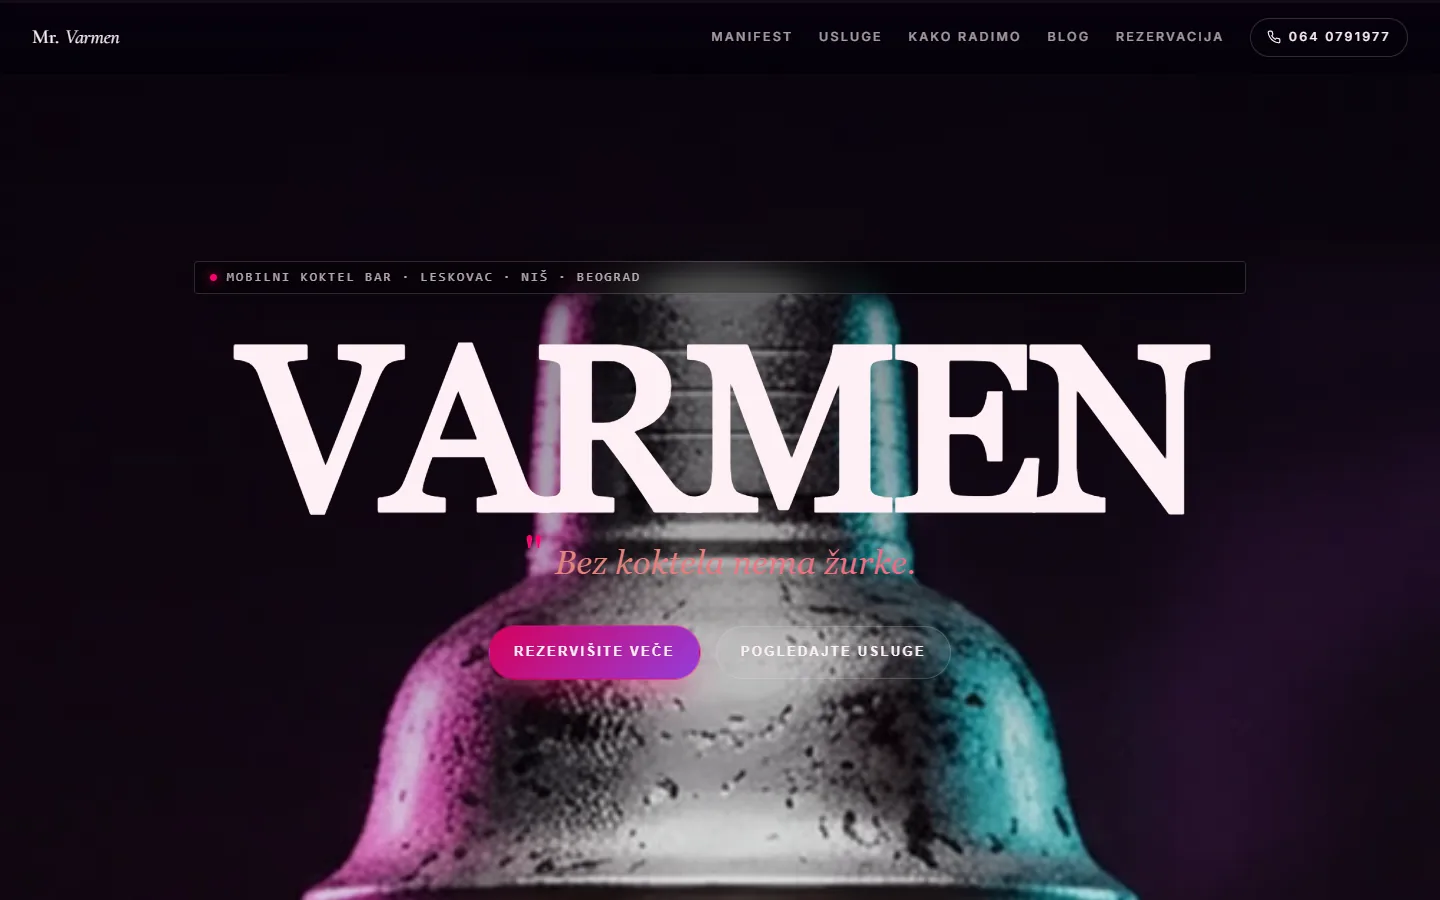
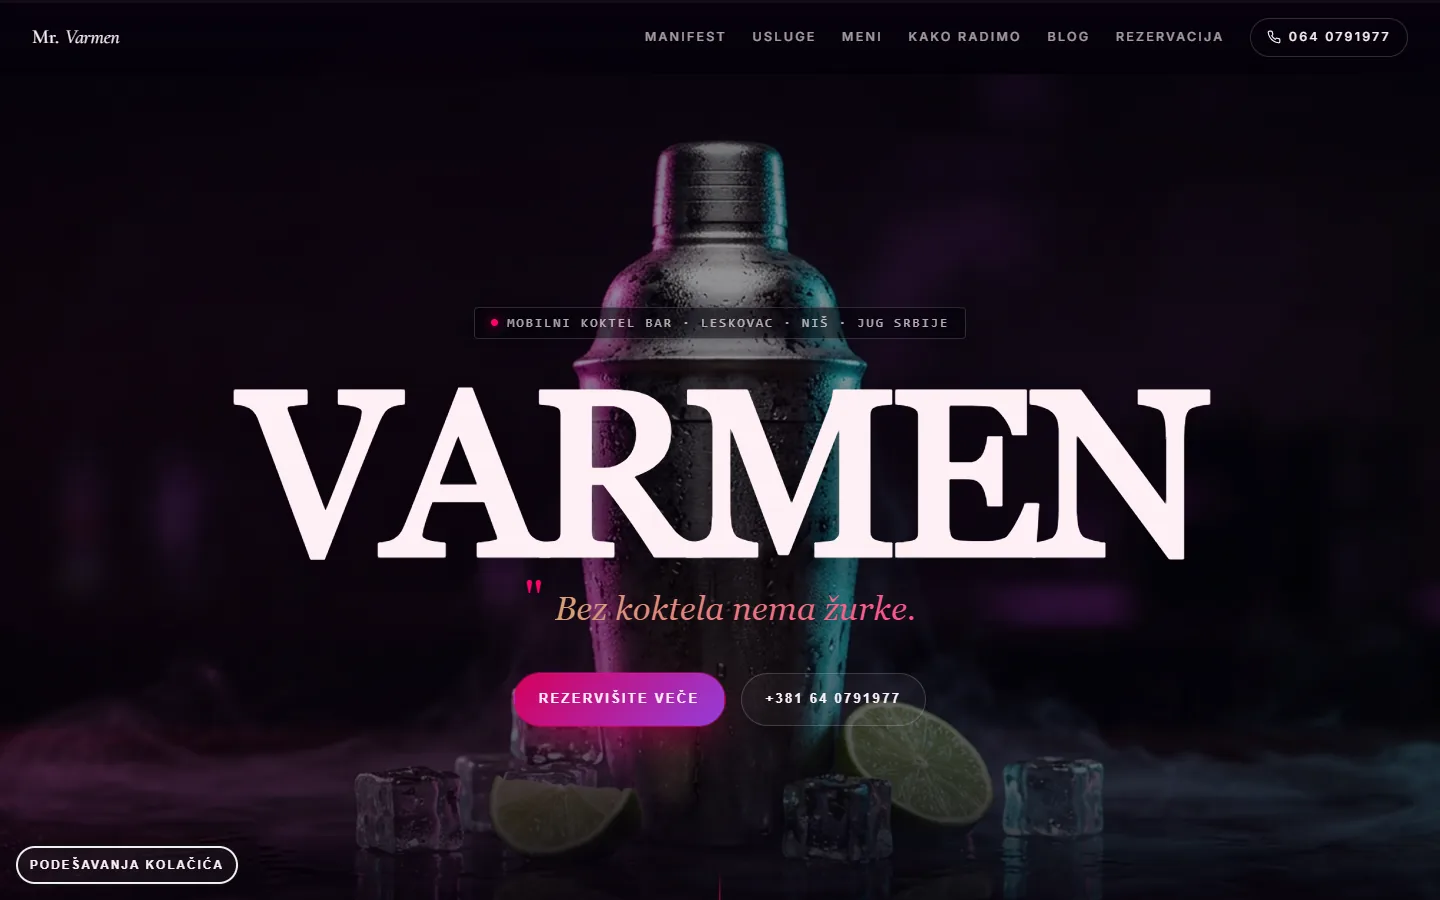
Update project page

diff --git a/README.md b/README.md
@@ -2,7 +2,7 @@
 
 # Mr. Varmen
 
-Site for a mobile cocktail bar that works weddings, birthdays and company events, opening with a film that plays as you scroll.
+Site for a mobile cocktail bar from Leskovac that works weddings, birthdays and company events, with its real cocktail menu and a page for each kind of event.
 
 **[mr.varmen.rs](https://mr.varmen.rs/)** · [Case study (in Serbian)](https://svilenkovic.rs/radovi/mr-varmen) · [Srpski](README.sr.md)
 
@@ -12,7 +12,7 @@ Site for a mobile cocktail bar that works weddings, birthdays and company events
 <table>
   <tr><td><b>Client</b></td><td>Mr. Varmen</td></tr>
   <tr><td><b>Industry</b></td><td>Mobile cocktail bar for events</td></tr>
-  <tr><td><b>Location</b></td><td>Leskovac, Niš and Belgrade, Serbia</td></tr>
+  <tr><td><b>Location</b></td><td>Leskovac, Niš and southern Serbia</td></tr>
   <tr><td><b>Type</b></td><td>Multi-page website</td></tr>
   <tr><td><b>My role</b></td><td>Design, development, SEO, hosting and maintenance</td></tr>
   <tr><td><b>Stack</b></td><td>Astro, JavaScript, PHP, JSON-LD</td></tr>
@@ -20,17 +20,17 @@ Site for a mobile cocktail bar that works weddings, birthdays and company events
 
 ## About the project
 
-Mr. Varmen brings a full cocktail bar and a bartender to weddings, birthdays and company events in Leskovac, Niš, Belgrade and the towns around them. People do not choose a mobile bar from a list of drinks, so the site first shows the preparation and the pour, and only then the offer. From there it leads to a short conversation about the date, the guest count and the menu.
+Mr. Varmen brings a full cocktail bar and a bartender to weddings, birthdays and company events in Leskovac, Niš, Vranje, Pirot, Prokuplje, Vlasotince and Lebane. People do not choose a mobile bar from a list of drinks, so the site first shows the pour and the mood of the evening, then the menu the bar actually brings, and only then asks for the date, the guest count and the place.
 
-The homepage opens with a pinned film in four chapters. On desktop the scroll position sets the video's playback time, on touch screens a separate mobile cut plays on a loop, and captions and a chapter rail follow the scroll either way. Nothing downloads until the first scroll or tap, or until six seconds have passed. With data saver on the video never loads, and visitors who ask for reduced motion get the poster and the text.
+The homepage opens with a short full-screen clip of a cocktail being poured. It loops, weighs 1.45 MB (0.57 MB on phones) and starts only after the page has loaded, so it never holds up the first paint. Below it, four stills from the same clip walk through the evening from setting up the bar to serving.
 
 ## What I built
 
-- Separate pages for weddings, birthdays, company events and the Niš area, plus a blog with five practical posts
-- A three-step booking flow (conversation, menu proposal, the evening) and a form for date, guest count, event type and location
-- A small PHP endpoint behind the form, with spam protection and a clear confirmation for the visitor
-- The pinned layout set by an inline script before the first paint, so the intro does not jump while the page loads
-- An animation loop that runs only while the film is on screen, tracked with an IntersectionObserver
+- Separate pages for weddings, birthdays, company events and the Niš area, with travel up to 50 km included in the package, plus a blog with five practical posts
+- The real cocktail menu, copied from the printed one the bar takes to events: ten cocktails and four shots, each with a drawn glass in the drink's colours, also described as Menu structured data
+- A three-step booking flow (conversation, menu proposal, the evening) and a form for date, guest count, event type and location, sent through my central form service with spam protection
+- Fonts cut down to the letters the site uses, with č, ć, đ, š and ž in a separate file of a few kilobytes
+- Instagram, TikTok and Facebook profiles linked from the footer, the contact page and the structured data
 - Static pages from Astro, with the legal pages and cookie settings styled like the rest of the site
 
 ## Results
@@ -51,11 +51,11 @@ PageSpeed Insights, lab test of the live site, October 2026. Security headers: 6
   </tr>
 </table>
 
-<img src="media/inner-1.webp" alt="The offer is split by event type and bar format">
-<sub>The offer is split by event type and bar format</sub>
+<img src="media/inner-1.webp" alt="The menu the bar brings: ten cocktails and four shots">
+<sub>The menu the bar brings: ten cocktails and four shots</sub>
 
-<img src="media/inner-2.webp" alt="A blog with practical tips on choosing and organizing a bar">
-<sub>A blog with practical tips on choosing and organizing a bar</sub>
+<img src="media/inner-2.webp" alt="Each kind of event has its own page, here weddings">
+<sub>Each kind of event has its own page, here weddings</sub>
 
 ---
 

diff --git a/README.sr.md b/README.sr.md
@@ -2,7 +2,7 @@
 
 # Mr. Varmen
 
-Sajt mobilnog koktel bara za svadbe, rođendane i poslovne događaje, sa filmom na početnoj koji se odvija dok se skroluje.
+Sajt mobilnog koktel bara iz Leskovca za svadbe, rođendane i poslovne događaje, sa pravim menijem koktela i stranom za svaku vrstu događaja.
 
 **[mr.varmen.rs](https://mr.varmen.rs/)** · [Studija slučaja](https://svilenkovic.rs/radovi/mr-varmen) · [English](README.md)
 
@@ -12,7 +12,7 @@ Sajt mobilnog koktel bara za svadbe, rođendane i poslovne događaje, sa filmom 
 <table>
   <tr><td><b>Klijent</b></td><td>Mr. Varmen</td></tr>
   <tr><td><b>Delatnost</b></td><td>Mobilni koktel bar za događaje</td></tr>
-  <tr><td><b>Lokacija</b></td><td>Leskovac, Niš i Beograd</td></tr>
+  <tr><td><b>Lokacija</b></td><td>Leskovac, Niš i jug Srbije</td></tr>
   <tr><td><b>Vrsta</b></td><td>Sajt sa više strana</td></tr>
   <tr><td><b>Moj deo posla</b></td><td>Dizajn, izrada, SEO, hosting i održavanje</td></tr>
   <tr><td><b>Tehnologije</b></td><td>Astro, JavaScript, PHP, JSON-LD</td></tr>
@@ -20,17 +20,17 @@ Sajt mobilnog koktel bara za svadbe, rođendane i poslovne događaje, sa filmom 
 
 ## O projektu
 
-Mr. Varmen dovodi ceo koktel bar sa barmenom na svadbe, rođendane i poslovne događaje u Leskovcu, Nišu, Beogradu i okolnim gradovima. Mobilni bar se ne bira sa spiska koktela, pa sajt prvo pokazuje pripremu i sipanje, a tek onda ponudu. Odatle vodi do kratkog razgovora o datumu, broju gostiju i meniju.
+Mr. Varmen dovodi ceo koktel bar sa barmenom na svadbe, rođendane i poslovne događaje u Leskovcu, Nišu, Vranju, Pirotu, Prokuplju, Vlasotincu i Lebanu. Mobilni bar se ne bira sa spiska pića, pa sajt prvo pokazuje sipanje i atmosferu večeri, zatim meni sa kojim bar stvarno dolazi, a tek onda pita za datum, broj gostiju i mesto.
 
-Početna se otvara filmom zakačenim za ekran, u četiri poglavlja. Na desktopu položaj skrola određuje trenutak snimka, na ekranima na dodir se u petlji vrti posebna verzija za telefon, a natpisi i traka poglavlja u oba slučaja prate skrol. Ništa se ne preuzima do prvog skrola ili dodira, ili dok ne prođe šest sekundi. Uz uključenu uštedu podataka video se nikad ne učitava, a ko je tražio smanjen pokret dobija poster i tekst.
+Početna se otvara kratkim snimkom sipanja koktela preko celog ekrana. Snimak se vrti u petlji, ima 1,45 MB (na telefonu 0,57 MB) i kreće tek kad se strana učita, pa ne usporava prvo iscrtavanje. Ispod njega četiri kadra iz istog snimka prate veče od pripreme bara do serviranja.
 
 ## Šta sam uradio
 
-- Posebne strane za svadbe, rođendane, poslovne događaje i Niš sa okolinom, plus blog sa pet praktičnih tekstova
-- Rezervacija u tri koraka (razgovor, predlog menija, samo veče) i forma za datum, broj gostiju, vrstu događaja i mesto
-- Mala PHP skripta iza forme, sa zaštitom od botova i jasnom potvrdom posetiocu
-- Raspored filma postavlja mala skripta u samoj strani pre prvog iscrtavanja, pa uvod ne skače dok se strana učitava
-- Petlja animacije radi samo dok je film na ekranu, a to prati IntersectionObserver
+- Posebne strane za svadbe, rođendane, poslovne događaje i Niš sa okolinom, uz put do 50 km uračunat u paket, plus blog sa pet praktičnih tekstova
+- Pravi meni koktela, prepisan sa štampanog menija koji bar nosi na događaje: deset koktela i četiri šota, svaki sa crtežom čaše u bojama pića, opisan i kao Menu u strukturiranim podacima
+- Rezervacija u tri koraka (razgovor, predlog menija, samo veče) i forma za datum, broj gostiju, vrstu događaja i mesto, koja ide preko centralnog servisa za forme sa zaštitom od spama
+- Fontovi isečeni na slova koja sajt koristi, a č, ć, đ, š i ž u zasebnom fajlu od nekoliko kilobajta
+- Profili na Instagramu, TikToku i Facebooku povezani u futeru, na strani za kontakt i u strukturiranim podacima
 - Statične strane iz Astra, a pravne strane i podešavanja kolačića izgledaju kao ostatak sajta
 
 ## Merenja
@@ -51,11 +51,11 @@ PageSpeed Insights, laboratorijsko merenje živog sajta, oktobar 2026. Sigurnosn
   </tr>
 </table>
 
-<img src="media/inner-1.webp" alt="Ponuda je podeljena prema vrsti događaja i formatu bara">
-<sub>Ponuda je podeljena prema vrsti događaja i formatu bara</sub>
+<img src="media/inner-1.webp" alt="Meni sa kojim bar dolazi: deset koktela i četiri šota">
+<sub>Meni sa kojim bar dolazi: deset koktela i četiri šota</sub>
 
-<img src="media/inner-2.webp" alt="Blog sa praktičnim savetima za izbor i organizaciju bara">
-<sub>Blog sa praktičnim savetima za izbor i organizaciju bara</sub>
+<img src="media/inner-2.webp" alt="Svaka vrsta događaja ima svoju stranu, ovde svadbe">
+<sub>Svaka vrsta događaja ima svoju stranu, ovde svadbe</sub>
 
 ---
 
